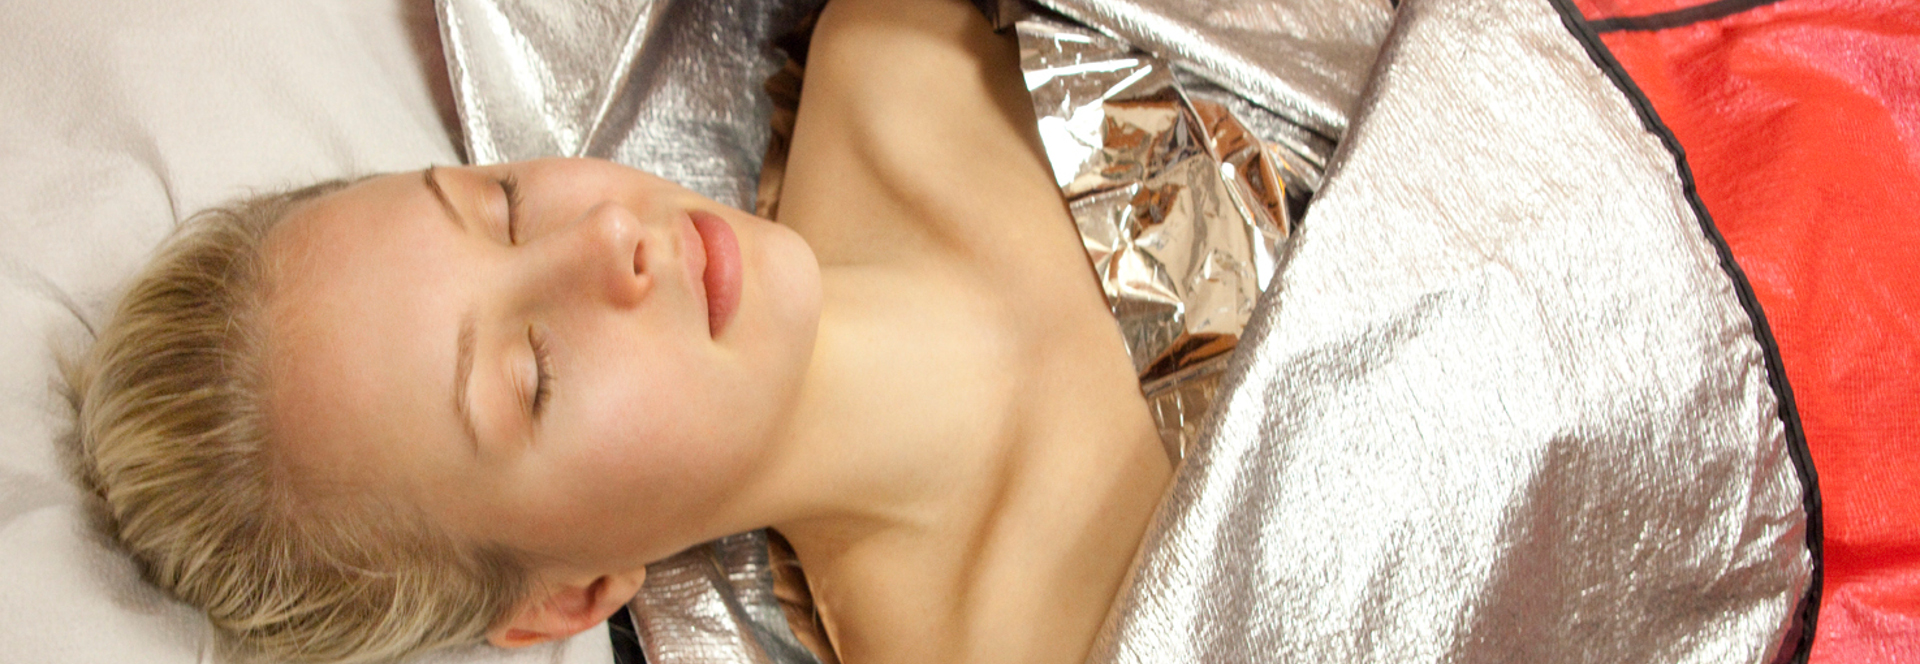
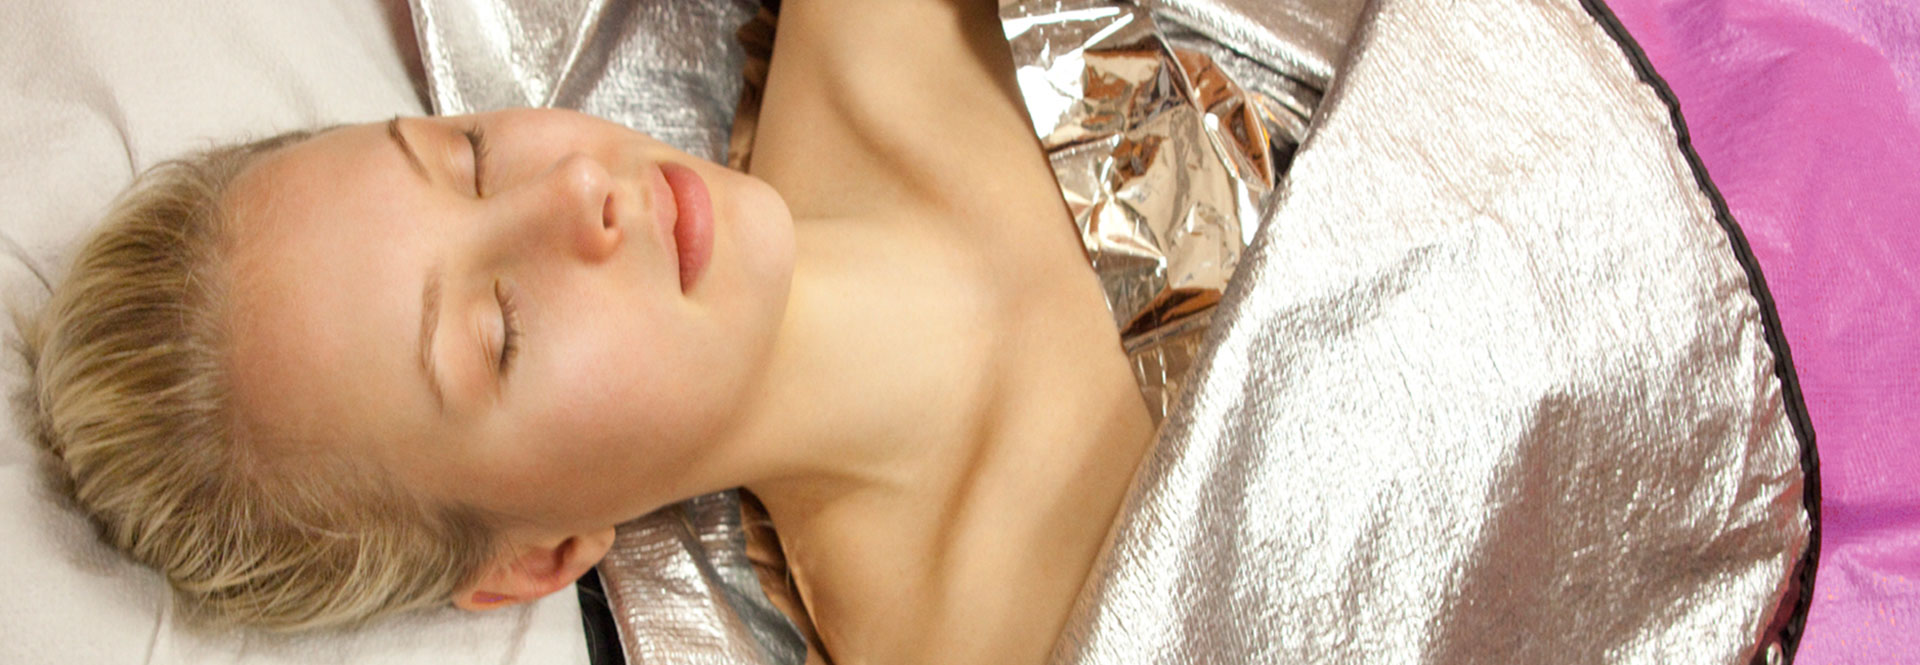
Updated bodywrap.jpg graphic and started with header include

diff --git a/includes/headerinc.php b/includes/headerinc.php
@@ -37,7 +37,7 @@ switch ($current) {
 				<div class="grid_12">
 					<h1>
 						<a href="index.php">
-							<img src="../images/logo_175x88.png" alt="logo" />
+							<img src="images/logo_175x88.png" alt="logo" />
 							<span>Body Wraps and More</span>
 						</a>
 					</h1>
